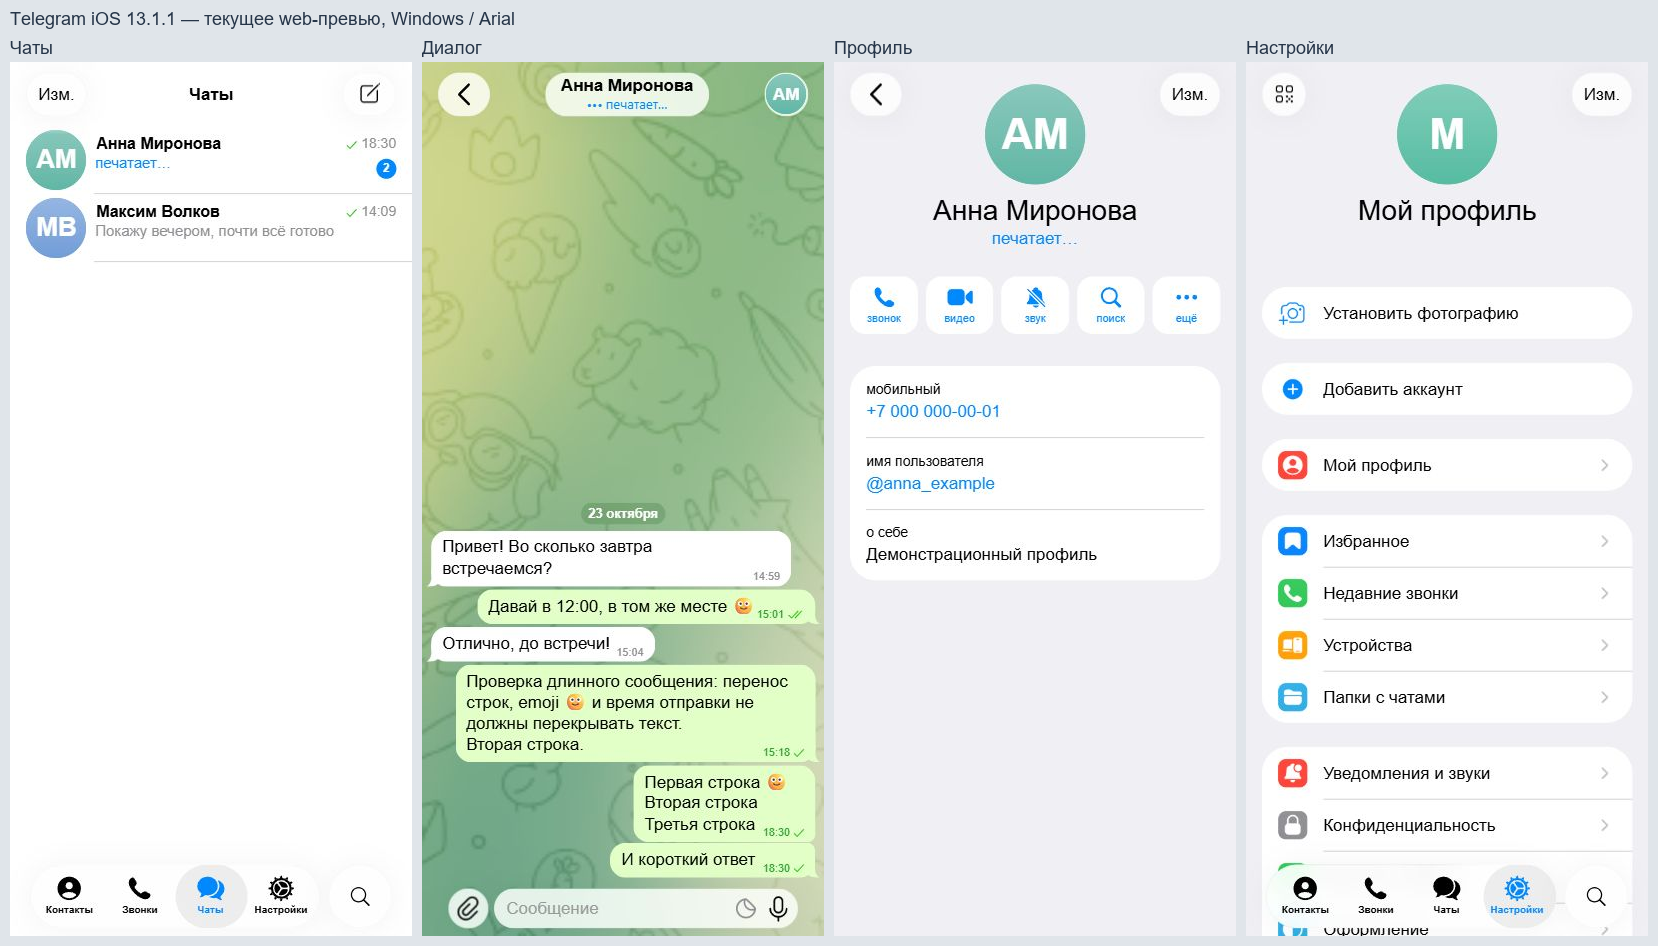
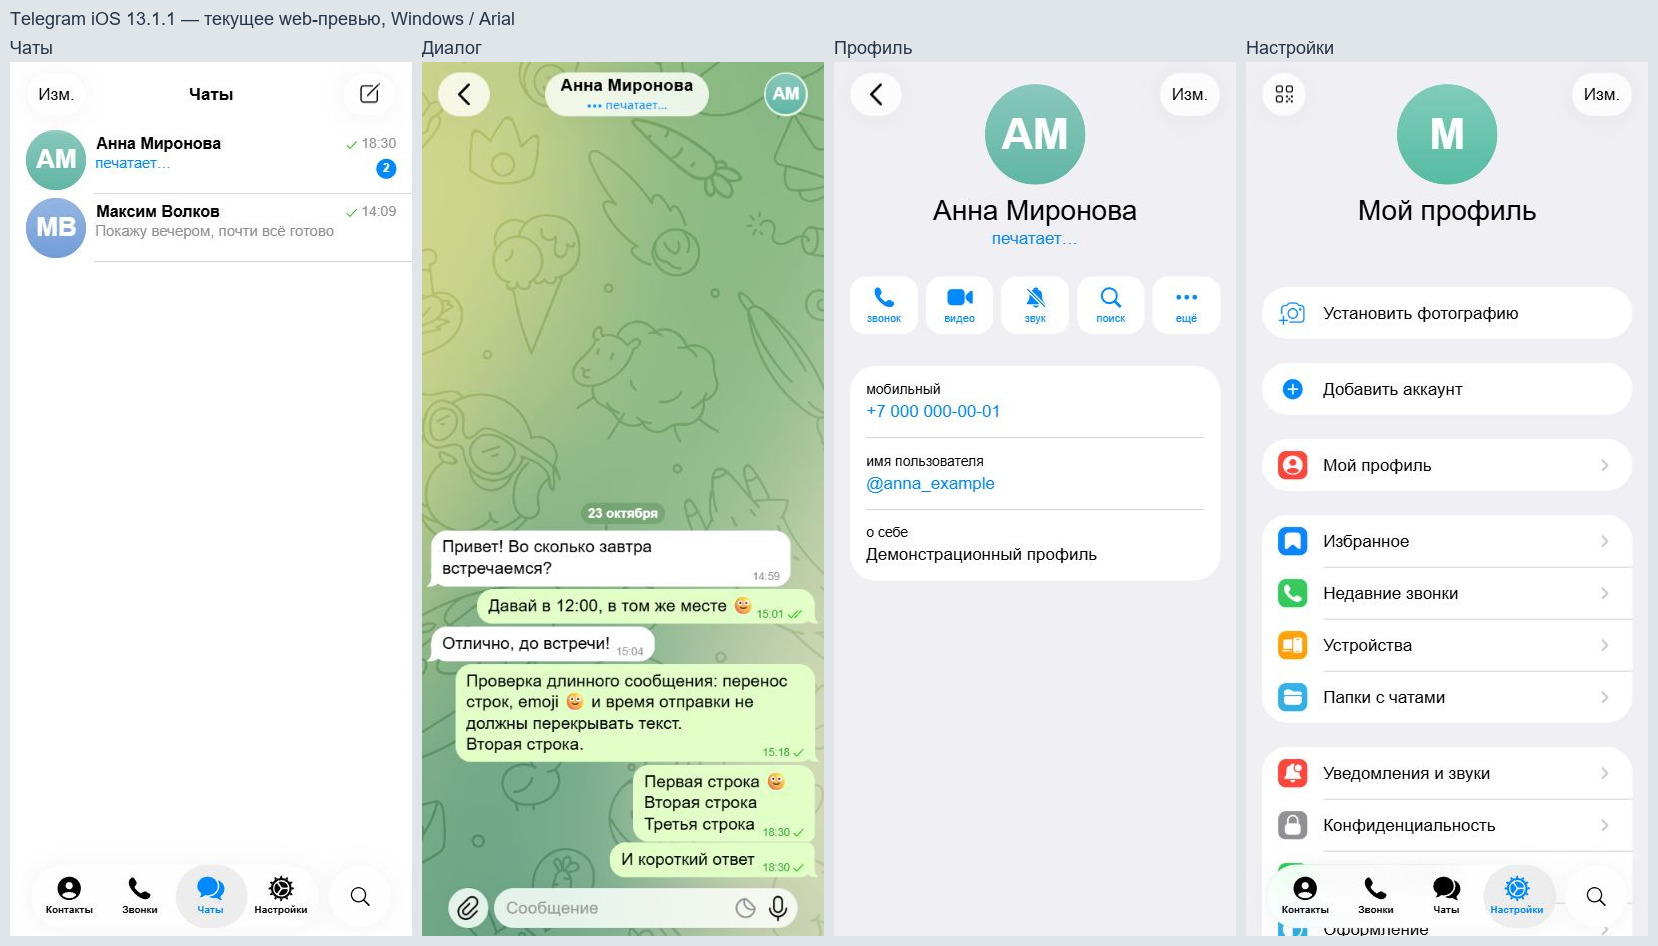
docs: record verified native screens and build provenance

diff --git a/docs/TELEGRAM_13_QA.md b/docs/TELEGRAM_13_QA.md
@@ -11,7 +11,7 @@
 ## Проверено
 
 - TypeScript, lint и 15 тестов модели/локального хранения проходят. [Чистый CI 8d64644](https://github.com/razievdaniil-rgb/telegram_visual_copy/actions/runs/39979680237): установка зависимостей, TypeScript, lint, тесты, web-export — успешно.
-- Итоговый production export для iOS, Android и web успешен: локальные изображения, SVG и автономные Hermes-бандлы сформированы. Журнал: локальный `artifacts/export-telegram13-final.log`.
+- Итоговый production export с HD-обоями для iOS, Android и web успешен: локальные изображения, SVG и автономные Hermes-бандлы сформированы. Журнал: локальный `artifacts/export-telegram13-hd.log`.
 - В браузере измерена строка чата 68pt; аватар 60pt; профильная карточка начинается на 304pt после верхнего края содержимого (поправка относительно 8d64644 — ещё 16pt между блоком действий и карточкой).
 - Проверены переходы между вкладками, в диалог и профиль; нижний поиск, фильтрация по имени, очистка/закрытие поиска; уведомление недоступных функций.
 - Проверены длинное и многострочное сообщение, emoji, отправка и группировка соседних сообщений, одна/две галочки, статус «печатает…» и badge непрочитанных.
@@ -21,18 +21,24 @@
 
 ## Нативная проверка
 
-Для 8d64644 запущены:
+Для 8d64644 завершены:
 
-- [Android APK / unsigned iOS app](https://github.com/razievdaniil-rgb/telegram_visual_copy/actions/runs/39979728910).
+- [Android APK / unsigned iOS app](https://github.com/razievdaniil-rgb/telegram_visual_copy/actions/runs/39979728910): обе сборки успешны. [Проверка пакетов и SHA-256](builds/8d64644.json); APK/IPA скачаны в локальный `artifacts/builds/8d64644/`, CRC верны, JavaScript-бандлы есть. Исходные SVG проверены после нормализации LF, PNG — по RGBA-пикселям (Android перепаковывает PNG). Проверены исправленная иконка контактов, обои, иллюстрация звонков и микрофон. Эти пакеты предшествуют поправке 16pt в профиле из 5cab6a1.
 - [iOS Simulator screenshots](https://github.com/razievdaniil-rgb/telegram_visual_copy/actions/runs/39979725257).
 
-Первый Simulator run 8f73e12 успешно скомпилировал и запустил приложение на iPhone 17 Pro / iOS 26.4. Валиден только снимок списка чатов: переходы через simctl openurl вызвали системное подтверждение «Open in ChatStudio?», поэтому остальные пять снимков отклонены. Workflow исправлен: Maestro CLI 2.11.0 нажимает элементы приложения, проверяет содержимое экранов и снимает клавиатуру. Собранный Simulator .app и SHA исходников сохраняются отдельно; параметр app_run_id позволяет повторить только UI-тест без повторной компиляции. Нативные сборки 8d64644 продолжают выполняться; успех не объявлен заранее. Промежуточные запуски 3ee242e отменены, поскольку их заменили проверки 8d64644.
+Первоначальные переходы через simctl openurl вызвали системное подтверждение «Open in ChatStudio?». Эти снимки отклонены; сценарий переведён на обычные нажатия через Maestro CLI 2.11.0. В первом Maestro-прогоне исправлена проверка accessibility-label поля; после тайм-аута холодного старта драйвера увеличено время его запуска.
+
+Итоговый [Maestro-прогон 39987228410](https://github.com/razievdaniil-rgb/telegram_visual_copy/actions/runs/39987228410) **успешен**: список → диалог → клавиатура → профиль → контакты → настройки → звонки. Все семь снимков просмотрены, системных запросов поверх экранов нет. Использован собранный .app из 6a69921: он включает поправку профиля 16pt, но предшествует HD-обоям. Проверка SHA-256 и происхождение: [отчёт](builds/6a69921-ios-visual.json).
+
+![Нативный запуск на iPhone 17 Pro / iOS 26.4](screenshots/telegram13-ios.png)
+
+Снимок клавиатуры подтверждает положение поля над системной клавиатурой и набор первой строки. Рост многострочного поля на iOS этим прогоном не доказан; многострочный ввод проверен в web. Снимки показывают наше приложение, а не Telegram-эталон.
 
 Физические iPhone/Android недоступны. Остаются проверка клавиатуры на устройстве, системного увеличения текста/уменьшения прозрачности и сопоставление с эталонными снимками **именно 13.1.1**. В исходном репозитории набора таких снимков нет.
 
 ## Известные отличия
 
-- В комплекте исходников есть только миниатюра стандартного узора обоев 155×320. Полноразмерный SVG с официального t.me/bg при запросе возвращает пустой файл. Используется исходная миниатюра, поэтому чёткость узора не считаем готовой для 1:1.
+- Миниатюра обоев заменена на растр 1550×3200 из совпадающего исходного вектора Telegram Web. Кадрирование сопоставлено с оригинальным ресурсом iOS: 217 инлайеров SIFT по всей площади, корреляция финального альфа-канала 0,9576. Исходный PNG и SVG сохранены. Окончательный масштаб/кадрирование относительно реального Telegram 13.1.1 ещё требуют эталонного снимка; нативный .app 6a69921 и пакеты 8d64644 предшествуют HD-растру, но используют ту же геометрию.
 - Статический кадр вкладок и иллюстрации звонков, неподвижная фаза градиента и статическая линза выбора. Оригинальные Lottie/TGS сохранены для дальнейшего переноса движения.
 - Скруглённое начертание инициалов отличается от стандартного системного bold. На Android/web также отличаются системный шрифт и материал стекла.
 - Текст пустой истории звонков не сверялся с русской локализацией на устройстве 13.1.1.

diff --git a/docs/STATUS.md b/docs/STATUS.md
@@ -6,7 +6,7 @@
 
 Перенесены исходные иконки вкладок, профиля, ввода, настроек; тема Classic, размеры списка и нижней панели, нижний поиск, маска пузырей и галочки. Убраны придуманные папки, история в заголовке и цветные обложки обычных профилей. Формат данных и редактор сохранены.
 
-TypeScript, lint, 15 существующих тестов, форматирование и production export для iOS/Android/web прошли. Чистый CI 8d64644 успешен. В браузере проверены экраны, нижний поиск, редактор, многострочный ввод/emoji, группировка, статусы, непрочитанные и сохранение после reload. Итоговые снимки и точные ограничения: [TELEGRAM_13_QA.md](TELEGRAM_13_QA.md). Нативные сборки 8d64644 и Simulator выполняются; полное совпадение пока не подтверждено.
+TypeScript, lint, 15 существующих тестов, форматирование и production export для iOS/Android/web прошли. Чистый CI 8d64644 успешен. В браузере проверены экраны, нижний поиск, редактор, многострочный ввод/emoji, группировка, статусы, непрочитанные и сохранение после reload. Итоговые снимки и точные ограничения: [TELEGRAM_13_QA.md](TELEGRAM_13_QA.md). Нативные сборки Android/iPhone 8d64644 успешны, скачаны и проверены. Simulator запускает приложение на iOS 26.4; успешный сценарий Maestro открыл все шесть экранов и системную клавиатуру. Семь снимков просмотрены и сохранены. HD-обои добавлены после Simulator-сборки; их экспорт и web-превью проверены. Полное совпадение пока не подтверждено.
 
 ## Архив предыдущего этапа 12.6.1
 
